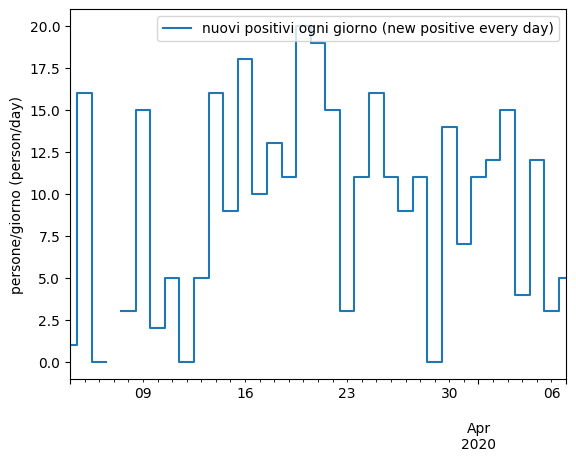
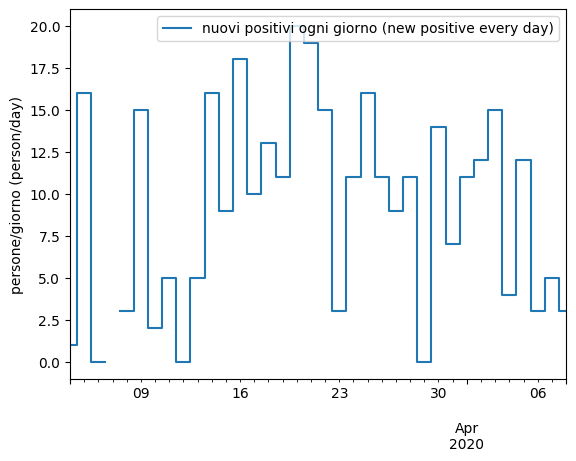
Add data for April the 8th and a new graph based on a formula

diff --git a/COVID-19/bollettino.html b/COVID-19/bollettino.html
@@ -19,10 +19,10 @@
     <link href="https://www.ausl.imola.bo.it/flex/TemplatesUSR/assets/font-awesome-4.7.0/css/font-awesome.min.css" rel="stylesheet">
     <link href="https://www.ausl.imola.bo.it/flex/TemplatesUSR/assets/fancybox-master/dist/jquery.fancybox.min.css" rel="stylesheet">
 
-    <link rel='stylesheet' type='text/css' media='screen' href='https://www.ausl.imola.bo.it/flex/cm/pages/ServeCSS.php/L/IT/N/normalize.css/M/-/BF/-/BV/-1?X30vTb' />
-	<link rel='stylesheet' type='text/css' media='screen' href='https://www.ausl.imola.bo.it/flex/cm/pages/ServeCSS.php/L/IT/N/flex.css/M/-/BF/-/BV/-1?X30vTb' />
+    <link rel='stylesheet' type='text/css' media='screen' href='https://www.ausl.imola.bo.it/flex/cm/pages/ServeCSS.php/L/IT/N/normalize.css/M/-/BF/-/BV/-1?C8nwTb' />
+	<link rel='stylesheet' type='text/css' media='screen' href='https://www.ausl.imola.bo.it/flex/cm/pages/ServeCSS.php/L/IT/N/flex.css/M/-/BF/-/BV/-1?C8nwTb' />
     <link href='https://www.ausl.imola.bo.it/flex/TemplatesUSR/assets/css/wheelmenu.css' rel='stylesheet'>
-    <link rel="stylesheet" type="text/css" media="print" href='https://www.ausl.imola.bo.it/flex/cm/pages/ServeCSS.php/L/IT/N/print.css/M/-/BF/-/BV/-1?VJ0vTb' />
+    <link rel="stylesheet" type="text/css" media="print" href='https://www.ausl.imola.bo.it/flex/cm/pages/ServeCSS.php/L/IT/N/print.css/M/-/BF/-/BV/-1?sehwTb' />
 
 	<!-- HTML5 Shim and Respond.js IE8 support of HTML5 elements and media queries -->
 	<!-- WARNING: Respond.js doesn't work if you view the page via file:// -->
@@ -75,13 +75,13 @@
 <meta property="og:type" content="article" />
 <meta property="og:url" content="https://www.ausl.imola.bo.it/flex/cm/pages/ServeBLOB.php/L/IT/IDPagina/10010" />
 <meta property="og:site_name" content="www.ausl.imola.bo.it" />
-<meta property="og:description" content="Cinque nuovi casi positivi al Covid-19. Il totale sale a 322. Nessun decesso nella giornata di oggi e 11 nuovi guariti con doppio tampone" />
+<meta property="og:description" content="Tre nuovi casi positivi al Covid-19. Il totale sale a 325 .  Quattro nuovi guariti con doppio tampone e nessun decesso " />
 <meta property="og:image" content="https://www.ausl.imola.bo.it/flex/images/1/f/b/D.0f26852e5331bd3d350b/aggiornamenti_locali.jpg" />
 <meta name="twitter:card" content="summary" />
 <meta name="twitter:site" content="www.ausl.imola.bo.it" />
 <meta name="twitter:creator" content="FlexCMP" />
 <meta name="twitter:title" content="AGGIORNAMENTI LOCALI COVID" />
-<meta name="twitter:description" content="Cinque nuovi casi positivi al Covid-19. Il totale sale a 322. Nessun decesso nella giornata di oggi e 11 nuovi guariti con doppio tampone" />
+<meta name="twitter:description" content="Tre nuovi casi positivi al Covid-19. Il totale sale a 325 .  Quattro nuovi guariti con doppio tampone e nessun decesso " />
 <meta name="twitter:image:src" content="https://www.ausl.imola.bo.it/flex/images/1/f/b/D.0f26852e5331bd3d350b/aggiornamenti_locali.jpg" />
 
 </head>
@@ -877,12 +877,14 @@
 </div>
                             
 <!-- Begin BLOB Content -->
-<div class='BLOBAlignLeft'><a href='https://www.ausl.imola.bo.it/flex/cm/pages/ServeBLOB.php/L/IT/IDPagina/9991' class='viewLink viewLinkIMG'  title='A QUESTO LINK AGGIORNAMENTI QUOTIDIANI SULLA SITUAZIONE IN EMILIA ROMAGNA'><img id='img-1' src='https://www.ausl.imola.bo.it/flex/tmp/imgResized/T-5a7db39de4ec63b30baec261aaaa4dcc-90x90.png'  width="90" height="90" alt='' />A QUESTO LINK AGGIORNAMENTI QUOTIDIANI SULLA SITUAZIONE IN EMILIA ROMAGNA</a><span class='BLOBHidden'>.</span></div><div><hr class='viewHR BLOBAlignLeft' /></div><h1 class="viewTitolo">AGGIORNAMENTI QUOTIDIANI SULL&#039;EPIDEMIA DI COVID-19 NEL TERRITORIO DEL CIRCONDARIO IMOLESE</h1><h2 class="viewSottotitolo">7 aprile</h2>
-<div class='viewPar BLOBAlignJustify'><p ><strong class='userFormat1'>Cinque nuovi casi positivi al Covid-19. Il totale sale a 322. Nessun decesso nella giornata di oggi e 11 nuovi guariti con doppio tampone</strong><br />Imola – Oggi nel nostro territorio non si registrano decessi e ci sono 11 nuovi guariti con doppio tampone negativo. Sono solo 5 più di ieri le persone risultate positive al Coronavirus: 3 residenti Imola e 2 a Medicina. <br />Salgono quindi a 322 i casi positivi refertati nel Circondario Imolese (compresi 19 guariti con doppio tampone negativo, e  29 decessi così suddivisi: 23 a Medicina, 3 a Imola, 2 a Castel San Pietro Terme e 1 a Dozza)<br />Sono 191 gli uomini e 131 le donne; 162 residenti a Medicina, 97 a Imola, 30 a Castel San Pietro Terme, 6 a Dozza, 5 a Castel Guelfo, 5 a Mordano, 3 a Casalfiumanese, 3 a Borgo Tossignano e 11 persone residenti fuori dal Circondario.<br />Tra i positivi 23 hanno 85 e più anni, 68 tra i 75 e gli 84 anni, 70 tra 65 e i 74 anni, 159 tra i 14 e i 64 anni (e più precisamente, analizzando ulteriormente il dato con le linee che utilizza solitamente il Ministero della Salute: 41 nella classe d’età 14-39 e 118 tra i 40 e i 64) e 2 al di sotto dei 14 anni. <br />Sono 62 gli accessi in Pronto Soccorso nelle 24 ore ma solo 5 i ricoveri riferibili al Covid.                                                                                                         <br />10 i ricoverati in Terapia Intensiva, 5 in semi-intesiva ECU, 45 nel reparto Covid, 18 in post acuzie Covid all'Ospedale di Comunità di Castel San Pietro Terme e 8 alloggiati in albergo. <br />Le Unità speciali di continuità assistenziali a 11 giorni dal loro avvio hanno effettuato 525 triage telefonici, 220 visite domiciliari, 150 terapie, 154 tamponi e 15 ECG. <br />Da lunedì ad oggi sono stati sottoposti a visita presso l'ambulatorio infettivologico oltre 100 pazienti in terapia.<br />13 le persone clinicamente guarite dal Covid19 che oggi hanno effettuato uno dei 2 tamponi necessari per attestare la guarigione al Drive Through allestito dall'Igiene Pubblica<br /></p></div>
+<div class='BLOBAlignLeft'><a href='https://www.ausl.imola.bo.it/flex/cm/pages/ServeBLOB.php/L/IT/IDPagina/9991' class='viewLink viewLinkIMG'  title='A QUESTO LINK AGGIORNAMENTI QUOTIDIANI SULLA SITUAZIONE IN EMILIA ROMAGNA'><img id='img-1' src='https://www.ausl.imola.bo.it/flex/tmp/imgResized/T-5a7db39de4ec63b30baec261aaaa4dcc-90x90.png'  width="90" height="90" alt='' />A QUESTO LINK AGGIORNAMENTI QUOTIDIANI SULLA SITUAZIONE IN EMILIA ROMAGNA</a><span class='BLOBHidden'>.</span></div><div><hr class='viewHR BLOBAlignLeft' /></div><h1 class="viewTitolo">AGGIORNAMENTI QUOTIDIANI SULL&#039;EPIDEMIA DI COVID-19 NEL TERRITORIO DEL CIRCONDARIO IMOLESE</h1><h2 class="viewSottotitolo">8 aprile</h2>
+<div class='viewPar BLOBAlignJustify'><p >Imola – Quattro nuovi guariti con doppio tampone negativo, nessun decesso e solo tre più di ierile persone risultate positive al Coronavirus: 2 residenti a Imola e 1 a Medicina.<br />Salgono a 325 i casi positivi refertati nel Circondario Imolese (compresi 23 guariti con doppio tampone negativo e i 29 decessi)<br />Sono 192 gli uomini e 133 le donne; 163 residenti a Medicina, 99 a Imola, 30 a Castel San Pietro Terme, 6 a Dozza, 5 a Castel Guelfo, 5 a Mordano, 3 a Casalfiumanese, 3 a Borgo Tossignano e 11 persone residenti fuori dal Circondario.<br />Tra i positivi 23 hanno 85 e più anni, 68 tra i 75 e gli 84 anni, 70 tra 65 e i 74 anni, 162 tra i 14 e i 64 anni (e più precisamente, analizzando ulteriormente il dato con le linee che utilizza solitamente il Ministero della Salute: 41 nella classe d’età 14-39 e 121 tra i 40 e i 64) e 2 al di sotto dei 14 anni.<br />Sono 38 gli accessi in Pronto Soccorso nelle 24 ore, ma solo 3 i ricoveri riferibili al Covid.<br />10 i ricoverati in Terapia Intensiva, 4 in semi-intensiva ECU, 42 nel reparto Covid, 17 in post acuzie Covid all'Ospedale di Comunità di Castel San Pietro Terme e 10 alloggiati in albergo.<br />Le Unità speciali di continuità assistenziali al 12esimo giorno di attività sul territorio hanno effettuato 573 triage telefonici, 242 visite domiciliari, 161 terapie, 171 tamponi e 16 ECG.<br />108 i controlli all'ambulatorio infettivologico. <br />Oggi 22 cittadini di Medicina clinicamente guariti hanno effettuato uno dei 2 tamponi necessari per attestare la guarigione al Drive Through allestito presso la Casa della Salute di Medicina dall'Igiene Pubblica<br /></p></div>
+<h2 class="viewSottotitolo">7 aprile</h2>
+<div class='viewPar BLOBAlignJustify'><p >Oggi nel nostro territorio non si registrano decessi e ci sono 11 nuovi guariti con doppio tampone negativo. Sono solo 5 più di ieri le persone risultate positive al Coronavirus: 3 residenti Imola e 2 a Medicina. <br />Salgono quindi a 322 i casi positivi refertati nel Circondario Imolese (compresi 19 guariti con doppio tampone negativo, e  29 decessi così suddivisi: 23 a Medicina, 3 a Imola, 2 a Castel San Pietro Terme e 1 a Dozza)<br />Sono 191 gli uomini e 131 le donne; 162 residenti a Medicina, 97 a Imola, 30 a Castel San Pietro Terme, 6 a Dozza, 5 a Castel Guelfo, 5 a Mordano, 3 a Casalfiumanese, 3 a Borgo Tossignano e 11 persone residenti fuori dal Circondario.<br />Tra i positivi 23 hanno 85 e più anni, 68 tra i 75 e gli 84 anni, 70 tra 65 e i 74 anni, 159 tra i 14 e i 64 anni (e più precisamente, analizzando ulteriormente il dato con le linee che utilizza solitamente il Ministero della Salute: 41 nella classe d’età 14-39 e 118 tra i 40 e i 64) e 2 al di sotto dei 14 anni. <br />Sono 62 gli accessi in Pronto Soccorso nelle 24 ore ma solo 5 i ricoveri riferibili al Covid.                                                                                                         <br />10 i ricoverati in Terapia Intensiva, 5 in semi-intesiva ECU, 45 nel reparto Covid, 18 in post acuzie Covid all'Ospedale di Comunità di Castel San Pietro Terme e 8 alloggiati in albergo. <br />Le Unità speciali di continuità assistenziali a 11 giorni dal loro avvio hanno effettuato 525 triage telefonici, 220 visite domiciliari, 150 terapie, 154 tamponi e 15 ECG. <br />Da lunedì ad oggi sono stati sottoposti a visita presso l'ambulatorio infettivologico oltre 100 pazienti in terapia.<br />13 le persone clinicamente guarite dal Covid19 che oggi hanno effettuato uno dei 2 tamponi necessari per attestare la guarigione al Drive Through allestito dall'Igiene Pubblica<br /></p></div>
 <h2 class="viewSottotitolo">6 aprile</h2>
-<div class='viewPar BLOBAlignJustify'><p ><strong class='userFormat1'>Tre nuovi casi positivi al Covid-19. Il totale sale a 317. Nessun decesso nella giornata di oggi.</strong><br />Imola – Sono solo 3 più di ieri le persone risultate positive al Coronavirus: 1 residente a Medicina e 2 fuori dal territorio. Oggin on si registrano decessi.<br />Salgono quindi a 317 i casi positivi refertati nel Circondario Imolese (compresi 8 guariti con doppio tampone negativo, 2 guariti clinicamente e 29 decessi così suddivisi: 23 a Medicina, 3 a Imola, 2 a Castel San Pietro Terme e 1 a Dozza)<br />Sono 190 gli uomini e 127 le donne; 160 residenti a Medicina, 94 a Imola, 30 a Castel San Pietro Terme, 6 a Dozza, 5 a Castel Guelfo, 5 a Mordano, 3 a Casalfiumanese, 3 a Borgo Tossignano e 11 persone residenti fuori dal Circondario.<br />Tra i positivi 23 hanno 85 e più anni, 68 tra i 75 e gli 84 anni, 70 tra 65 e i 74 anni, 154 tra i 14 e i 64 anni (e più precisamente, analizzando ulteriormente il dato con le linee che utilizza solitamente il Ministero della Salute: 41 nella classe d’età 14-39 e 113 tra i 40 e i 64) e 2 al di sotto dei 14 anni.<br />Resta stabile la situazione in Ospedale. Sono 39 gli accessi in Pronto Soccorso nelle 24 ore ma solo 5 i ricoveri riferibili al Covid.<br />11 i ricoverati in Terapia Intensiva, 7 in semi-intesiva ECU, 45 nel reparto Covid, 19 in post acuzie Covid all'Ospedale di Comunità di Castel San Pietro Terme e 3 alloggiati in albergo. Da ogginel reparto internistico Covid sono partite le attività di riabilitazione respiratoria a cui sono stati dedicati 4 posti letto del 4° piano.<br />Le Unità speciali di continuità assistenziali a 10 giorni dal loro avvio hanno effettuato 490 triage telefonici, 203 visite domiciliari, 135 terapie, 136 tamponi e 14  ECG. Da lunedì ad  oggi sono stati sottoposti a visita presso l'ambulatorio infettivologico oltre 80 pazienti in terapia.<br /></p></div>
+<div class='viewPar BLOBAlignJustify'><p >Sono solo 3 più di ieri le persone risultate positive al Coronavirus: 1 residente a Medicina e 2 fuori dal territorio. Oggin on si registrano decessi.<br />Salgono quindi a 317 i casi positivi refertati nel Circondario Imolese (compresi 8 guariti con doppio tampone negativo, 2 guariti clinicamente e 29 decessi così suddivisi: 23 a Medicina, 3 a Imola, 2 a Castel San Pietro Terme e 1 a Dozza)<br />Sono 190 gli uomini e 127 le donne; 160 residenti a Medicina, 94 a Imola, 30 a Castel San Pietro Terme, 6 a Dozza, 5 a Castel Guelfo, 5 a Mordano, 3 a Casalfiumanese, 3 a Borgo Tossignano e 11 persone residenti fuori dal Circondario.<br />Tra i positivi 23 hanno 85 e più anni, 68 tra i 75 e gli 84 anni, 70 tra 65 e i 74 anni, 154 tra i 14 e i 64 anni (e più precisamente, analizzando ulteriormente il dato con le linee che utilizza solitamente il Ministero della Salute: 41 nella classe d’età 14-39 e 113 tra i 40 e i 64) e 2 al di sotto dei 14 anni.<br />Resta stabile la situazione in Ospedale. Sono 39 gli accessi in Pronto Soccorso nelle 24 ore ma solo 5 i ricoveri riferibili al Covid.<br />11 i ricoverati in Terapia Intensiva, 7 in semi-intesiva ECU, 45 nel reparto Covid, 19 in post acuzie Covid all'Ospedale di Comunità di Castel San Pietro Terme e 3 alloggiati in albergo. Da ogginel reparto internistico Covid sono partite le attività di riabilitazione respiratoria a cui sono stati dedicati 4 posti letto del 4° piano.<br />Le Unità speciali di continuità assistenziali a 10 giorni dal loro avvio hanno effettuato 490 triage telefonici, 203 visite domiciliari, 135 terapie, 136 tamponi e 14  ECG. Da lunedì ad  oggi sono stati sottoposti a visita presso l'ambulatorio infettivologico oltre 80 pazienti in terapia.<br /></p></div>
 <h2 class="viewSottotitolo">5 aprile </h2>
-<div class='viewPar BLOBAlignJustify'><p >Imola – Sono 12 più di  ieri le persone risultate positive al Coronavirus: 6 residenti a Medicina, 3 ad Imola, 1 a Castel San Pietro Terme, 1 Mordano e 1 fuori territorio<br />Purtroppo  oggi sono due le famiglie che subiscono un lutto a Medicina. Sono deceduti un uomo e una donna rispettivamente di 77 e 75 anni. Salgono quindi a 314 i casi positivi refertati nel Circondario Imolese (compresi 8 guariti con doppio tampone negativo, 2 guariti clinicamente e 29 decessi così suddivisi: 23 a Medicina, 3 a Imola, 2 a Castel San Pietro Terme e 1 a Dozza)<br />Sono 189 gli uomini e 125 le donne; 159 residenti a Medicina, 94 a Imola, 30 a Castel San Pietro Terme, 6 a Dozza, 5 a Castel Guelfo, 5 a Mordano, 3 a Casalfiumanese, 3 a Borgo Tossignano e 9 persone residenti fuori dal Circondario.<br />Tra i positivi 23 hanno 85 e più anni, 67 tra i 75 e gli 84 anni, 68 tra 65 e i 74 anni, 154 tra i 14 e i 64 anni (e più precisamente, analizzando ulteriormente il dato con le linee che utilizza solitamente il Ministero della Salute: 41 nella classe d’età 14-39 e 113 tra i 40 e i 64) e 2 al di sotto dei 14 anni. <br />6 le persone ricoverate in semi-intesiva ECU,  42 i ricoverati nel reparto Covid, 19 in post acuzie Covid all'Ospedale di Comunità di Castel San Pietro Terme e 3 alloggiati in albergo. Dall'ingresso del primo paziente Covid+ in Terapia Intensiva ad Imola, esattamente un mese fa, sono state 24 le persone che sono state ricoverate in questo reparto con COVID, di cui 9 quelli che sono ricoverati ad  oggi, 10 i trasferiti in altro reparto e 5 i deceduti. Le Unità speciali di continuità assistenziali a 9 giorni dal loro avvio hanno effettuato 465 triage telefonici, 187 visite domiciliari, 121 terapie, 123 tamponi e 12  ECG. Da lunedì ad  oggi sono stati sottoposti a visita presso l'ambulatorio infettivologico 64 pazienti in terapia.</p></div>
+<div class='viewPar BLOBAlignJustify'><p >Sono 12 più di  ieri le persone risultate positive al Coronavirus: 6 residenti a Medicina, 3 ad Imola, 1 a Castel San Pietro Terme, 1 Mordano e 1 fuori territorio<br />Purtroppo  oggi sono due le famiglie che subiscono un lutto a Medicina. Sono deceduti un uomo e una donna rispettivamente di 77 e 75 anni. Salgono quindi a 314 i casi positivi refertati nel Circondario Imolese (compresi 8 guariti con doppio tampone negativo, 2 guariti clinicamente e 29 decessi così suddivisi: 23 a Medicina, 3 a Imola, 2 a Castel San Pietro Terme e 1 a Dozza)<br />Sono 189 gli uomini e 125 le donne; 159 residenti a Medicina, 94 a Imola, 30 a Castel San Pietro Terme, 6 a Dozza, 5 a Castel Guelfo, 5 a Mordano, 3 a Casalfiumanese, 3 a Borgo Tossignano e 9 persone residenti fuori dal Circondario.<br />Tra i positivi 23 hanno 85 e più anni, 67 tra i 75 e gli 84 anni, 68 tra 65 e i 74 anni, 154 tra i 14 e i 64 anni (e più precisamente, analizzando ulteriormente il dato con le linee che utilizza solitamente il Ministero della Salute: 41 nella classe d’età 14-39 e 113 tra i 40 e i 64) e 2 al di sotto dei 14 anni. <br />6 le persone ricoverate in semi-intesiva ECU,  42 i ricoverati nel reparto Covid, 19 in post acuzie Covid all'Ospedale di Comunità di Castel San Pietro Terme e 3 alloggiati in albergo. Dall'ingresso del primo paziente Covid+ in Terapia Intensiva ad Imola, esattamente un mese fa, sono state 24 le persone che sono state ricoverate in questo reparto con COVID, di cui 9 quelli che sono ricoverati ad  oggi, 10 i trasferiti in altro reparto e 5 i deceduti. Le Unità speciali di continuità assistenziali a 9 giorni dal loro avvio hanno effettuato 465 triage telefonici, 187 visite domiciliari, 121 terapie, 123 tamponi e 12  ECG. Da lunedì ad  oggi sono stati sottoposti a visita presso l'ambulatorio infettivologico 64 pazienti in terapia.</p></div>
 <h2 class="viewSottotitolo">4 aprile </h2>
 <div class='viewPar BLOBAlignJustify'><p >Nessun decesso e una nuova guarigione nella giornata odierna: un cittadino medicinese che ha già un doppio referto negativo.Salgono quindi a 302 i casi positivi refertati nel Circondario Imolese (compresi 8 guariti con doppio tampone negativo, 2 guariti clinicamente e 27 decessi così suddivisi: 21 a Medicina, 3 a Imola, 2 a Castel San Pietro Terme e 1 a Dozza)<br />Sono 181 gli uomini e 121 le donne; 153 residenti a Medicina, 91 a Imola, 29 a Castel San Pietro Terme, 6 a Dozza, 5 a Castel Guelfo, 4 a Mordano, 3 a Casalfiumanese, 3 a Borgo Tossignano e 8 persone residenti fuori dal Circondario.<br />Tra i positivi 22 hanno 85 e più anni, 67 tra i 75 e gli 84 anni, 66 tra 65 e i 74 anni, 147 tra i 14 e i 64 anni (e più precisamente, analizzando ulteriormente il dato con le linee che utilizza solitamente il Ministero della Salute: 38 nella classe d’età 14-39 e 109 tra i 40 e i 64).<br />Dalle 12 di ieri, 3 aprile, alle 12 di  oggi sono stati in totale 46 gli accessi in Pronto Soccorso, ma sono stati solo 6 i nuovi ricoveri relativi all'epidemia di Covid<br />6 anche le persone ricoverate in semi-intesiva ECU, 11 le persone Covid positive in Terapia Intensiva (1 persona è quindi uscita dall'intensiva per essere ricoverata in un reparto a minore intensità), 44 i ricoverati nel reparto Covid, 18 in post acuzie Covid all'Ospedale di Comunità di Castel San Pietro Terme e 2 alloggiati in albergo.<br />Le Unità speciali di continuità assistenziali ad 8 giorni dal loro avvio hanno triagiato telefonicamente 432 persone, visitato 164 persone, avviato 97 terapie, effettuato 104 tamponi ed 11 ECG. <br />Da lunedì ad  oggi sono stati sottoposti a visita presso l'ambulatorio infettivologico 64 pazienti in terapia.</p></div>
 <h2 class="viewSottotitolo">3 aprile </h2>

diff --git a/COVID-19/analysis.py b/COVID-19/analysis.py
@@ -30,6 +30,16 @@ ax2.set_ylabel('persone (person)')
 ax2.legend(['totale positivi (confirmed)','totale deceduti (deaths)','totale guariti (recovered)'])
 ax2.figure.savefig('COVID-19-cumulative.png',bbox_inches='tight')
 
+fig, ax3 = plt.subplots(1)
+df3 = df[['positive','dead','total_recovered']]
+df3 = df3.assign(positive_minus_dead_minus_recovered=df['positive']-df['dead']-df['total_recovered'])
+df3.plot(drawstyle='steps-mid',ax=ax3)
+ax3.set_xlabel('')
+ax3.set_ylabel('persone (person)')
+# translation according to https://github.com/pomber/covid19
+ax3.legend(['$c=$totale positivi (confirmed)','$d$=totale deceduti (deaths)','$r$=totale guariti (recovered)','$c-d-r$'])
+ax3.figure.savefig('COVID-19-cumulative-formula.png',bbox_inches='tight')
+
 
 
 # Daily boxplot graph

diff --git a/COVID-19/readme.MD b/COVID-19/readme.MD
@@ -1,5 +1,7 @@
 ![COVID-19 cumulative graph](COVID-19-cumulative.png)
 
+![COVID-19 cumulative graph with formula](COVID-19-cumulative-formula.png)
+
 ![COVID-19 daily positive graph](COVID-19-daily_delta_positive.png)
 
 ![Boxplot for daily positive graph](COVID-19-daily_positive_boxplot.png)
